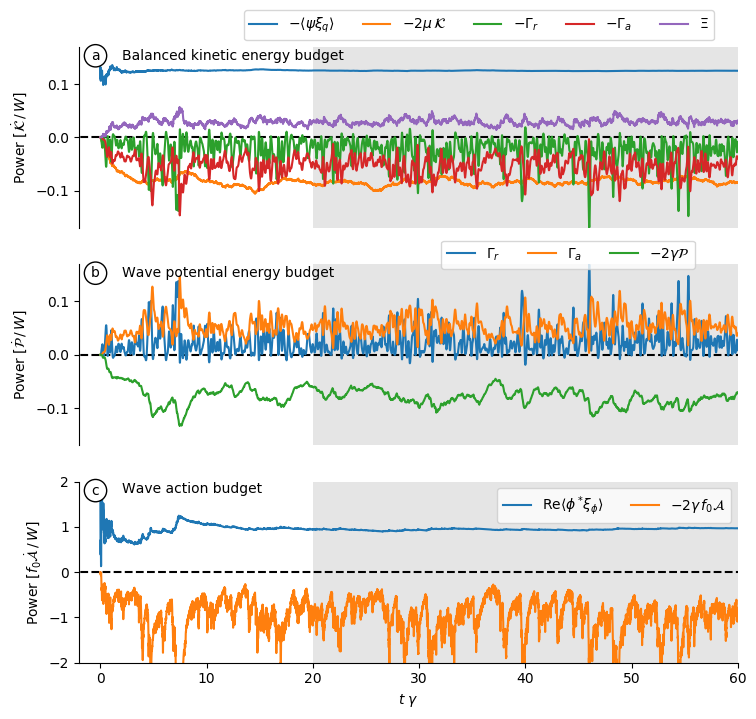
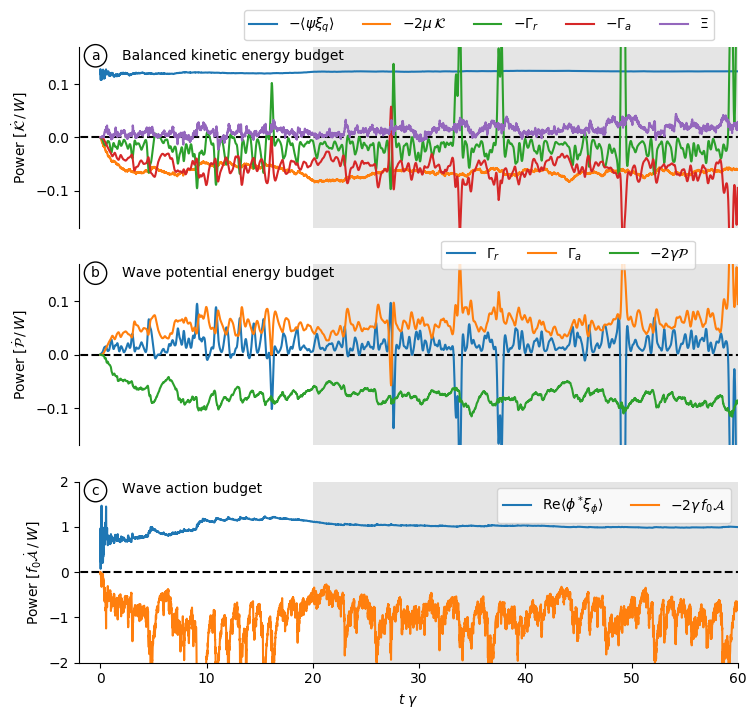
Update

Changed region(s): [[0.1217, 0.0612, 0.9735, 0.306], [0.1217, 0.3672, 0.9735, 0.612], [0.1217, 0.7038, 0.9735, 0.9179]]

diff --git a/code/CompareDiagnostics.py b/code/CompareDiagnostics.py
@@ -115,7 +115,9 @@ fig = plt.figure(figsize=(8.5,10.))
 ax = fig.add_subplot(311)
 plt.plot([-5,65],[K,K]/Eq,'k--')
 pk = plt.plot(time,diags_reference['ke_qg'][:]/Eq)
+#plt.plot(time,diags_reference['ke_euler'][:]/Eq,'--',color=pk[0].get_color(),alpha=0.5)
 pp = plt.plot(timend,diags_nodrag['ke_qg'][:]/Eq)
+#plt.plot(timend,diags_nodrag['ke_euler'][:]/Eq,'--',color=pp[0].get_color(),alpha=0.5)
 plt.plot(time,diags_nowaves['ke_qg'][:]/Eq)
 plt.xlim(-2,37.5)
 plt.ylabel(r"Balanced kinetic energy $[\mathcal{K}/E_q]$")
@@ -123,7 +125,7 @@ plt.yticks([0,0.5,1.0,1.5,2.0])
 plt.legend(loc=(0.35,-0.2),ncol=3)
 #remove_axes(ax,bottom=True)
 remove_axes(ax,bottom=True)
-plot_fig_label(ax,xc=0.025,yc=0.95,label=r'$\mathcal{K}$')
+plot_fig_label(ax,xc=0.025,yc=0.95,label=r'$\mathcal{K}^L$')
 
 plt.text(26.5,1.5,r"No-drag")
 plt.text(33,0.35,'Reference')
@@ -176,7 +178,7 @@ stop
 #
 ## First, design the Buterworth filter
 N  = 2    # Filter order
-Wn = 0.05 # Cutoff frequency
+Wn = 0.025 # Cutoff frequency
 B, A = signal.butter(N, Wn, output='ba')
 #gamma_a_filt = signal.filtfilt(B,A, gamma_a)
 #gamma_r_filt = signal.filtfilt(B,A, gamma_r)
@@ -191,7 +193,7 @@ plt.plot(time,(diags_reference['Work_q'][:])/(time/gamma)/POWER,label=r'$-\lefta
 plt.plot(time,diags_reference['ep_psi'][:]/POWER,label=r'$-2\mu\,\mathcal{K}$')
 plt.plot(time,-(signal.filtfilt(B,A,diags_reference['gamma_r'][:]))/POWER,label=r'$-\Gamma_r$')
 plt.plot(time,-(signal.filtfilt(B,A,diags_reference['gamma_a'][:]))/POWER,label=r'$-\Gamma_a$')
-plt.plot(time,(diags_reference['xi_a'][:]+diags_reference['xi_r'][:])/POWER,label=r'$\Xi$')
+plt.plot(time,(diags_reference['xi'][:])/POWER,label=r'$\Xi$')
 
 plt.legend(loc=(0.25,1.035),ncol=5)
 plt.ylabel(r"Power [$\dot \mathcal{K} \,/\, W$]")
@@ -232,20 +234,146 @@ plot_fig_label(ax,xc=0.025,yc=0.95,label='c')
 plt.text(2,1.75,'Wave action budget')
 
 plt.axvspan(20, 60, facecolor='k', alpha=0.1)
-
 plt.savefig(patho+'K_and_P_and_A_budget_reference', pad_inces=0, bbox_inches='tight')
 
 
+
+#
+# calculate and plot buget
+#
+
+y_pos = np.arange(6)
+colors = ['0.5', 'b', 'm', 'r', 'maroon','g']
+colors = ['0.5', 'r', 'b', 'b', 'b','r']
+
+fig = plt.figure(figsize=(12,8))
+
+ax = fig.add_subplot(121)
+
+eq = (time>24)&(time<=35)
+residual =  -(diags_reference['gamma_r'][eq]+diags_reference['gamma_a'][eq]) + (diags_reference['xi'][eq])+ diags_reference['ep_psi'][eq].mean() + (diags_reference['Work_q'][eq]/(time[eq]/gamma))
+work_q_tot = (diags_reference['Work_q'][eq]/(time[eq]/gamma)).mean()
+norm = work_q_tot.sum()
+work_q_tot = (diags_reference['Work_q'][eq]/(time[eq]/gamma)).mean()/norm
+gamma_q_tot =  -(diags_reference['gamma_r'][eq]+diags_reference['gamma_a'][eq]).mean()/norm
+gamma_q_r =  -(diags_reference['gamma_r'][eq]).mean()/norm
+gamma_q_a =  -(diags_reference['gamma_a'][eq]).mean()/norm
+#xi_tot =  (diags_reference['xi_r'][eq]+diags_reference['xi_a'][eq]).mean()/norm
+xi_tot = (diags_reference['xi'][eq]).mean()/norm
+ep_psi_tot = diags_reference['ep_psi'][eq].mean()/norm
+residual_K = residual.mean()/norm
+
+# P buget
+residual = diags_reference['gamma_r'][eq]+diags_reference['gamma_a'][eq]+diags_reference['chi_phi'][eq]
+gamma_tot = (diags_reference['gamma_r'][eq]+diags_reference['gamma_a'][eq]).mean()
+norm = gamma_tot.sum()
+gamma_r = (diags_reference['gamma_r'][eq]).mean()/norm
+gamma_a = (diags_reference['gamma_a'][eq]).mean()/norm
+chi_phi_tot = diags_reference['chi_phi'][eq].mean()/norm
+residual_P_reference = residual.mean()/norm
+
+
+# A budget
+residual = diags_reference['Work_w'][eq]/(time[eq]/gamma)+diags_reference['ep_phi'][eq]
+work_w_tot =  (diags_reference['Work_w'][eq]/(time[eq]/gamma) ).mean()
+norm = work_w_tot.sum()
+work_w_tot =  (diags_reference['Work_w'][eq]/(time[eq]/gamma) ).mean()/norm
+ep_phi_tot = (diags_reference['ep_phi'][eq]).mean()/norm
+residual_A = residual.mean()/norm
+
+
+
+budget = [residual_K,xi_tot,ep_psi_tot,gamma_q_a,gamma_q_r,work_q_tot]
+plt.barh(y_pos, budget, align='center', alpha=0.35, color = colors)
+plt.yticks([])
+plt.xlim(-1.,1.05)
+ax.spines['right'].set_visible(False)
+ax.spines['left'].set_visible(False)
+ax.spines['top'].set_visible(False)
+plt.text(0.335,4.95,r"Forcing",fontsize=11)
+plt.text(-0.35,3.91,r"$-\Gamma_r$",fontsize=13)
+plt.text(-0.35,2.91,r"$-\Gamma_a$",fontsize=13)
+plt.text(-0.95,3.85,r"Stimulated",fontsize=11,rotation=40)
+plt.text(-0.8,3.85,r"generation",fontsize=11,rotation=40)
+plt.text(-0.51,1.91,r"Bottom drag",fontsize=11)
+plt.text(0.2,.91,r"Wave streaming",fontsize=11)
+plt.text(0.3,-.09,r"Residual",fontsize=11)
+plt.xticks([-1,-.5,0,.5,1.])
+plt.xlabel(r"$\mathcal{K}^L$-budget")
+
+bbox_props = dict(boxstyle="round4", color=None,fc='w', ec="0.5", lw=1.5)
+t = ax.text(-.7, 6.1, "Reference", ha="center", va="center", rotation=0,
+            size=13,
+            bbox=bbox_props)
+
+ax = fig.add_subplot(122)
+eq = timend>24
+
+residual =  -(diags_nodrag['gamma_r'][eq]+diags_nodrag['gamma_a'][eq]) + (diags_nodrag['xi'][eq])+ diags_nodrag['ep_psi'][eq].mean() + (diags_nodrag['Work_q'][eq]/(time[eq]/gamma))
+work_q_tot = (diags_nodrag['Work_q'][eq]/(time[eq]/gamma)).mean()
+norm = work_q_tot.sum()
+work_q_tot = (diags_nodrag['Work_q'][eq]/(time[eq]/gamma)).mean()/norm
+gamma_q_tot =  -(diags_nodrag['gamma_r'][eq]+diags_nodrag['gamma_a'][eq]).mean()/norm
+gamma_q_r =  -(diags_nodrag['gamma_r'][eq]).mean()/norm
+gamma_q_a =  -(diags_nodrag['gamma_a'][eq]).mean()/norm
+#xi_tot =  (diags_nodrag['xi_r'][eq]+diags_nodrag['xi_a'][eq]).mean()/norm
+xi_tot = (diags_nodrag['xi'][eq]).mean()/norm
+ep_psi_tot = diags_nodrag['ep_psi'][eq].mean()/norm
+residual_K = residual.mean()/norm
+
+# P buget
+residual = diags_nodrag['gamma_r'][eq]+diags_nodrag['gamma_a'][eq]+diags_nodrag['chi_phi'][eq]
+gamma_tot = (diags_nodrag['gamma_r'][eq]+diags_nodrag['gamma_a'][eq]).mean()
+norm = gamma_tot.sum()
+gamma_r = (diags_nodrag['gamma_r'][eq]).mean()/norm
+gamma_a = (diags_nodrag['gamma_a'][eq]).mean()/norm
+chi_phi_tot = diags_nodrag['chi_phi'][eq].mean()/norm
+residual_P_nodrag = residual.mean()/norm
+
+budget = [residual_K,xi_tot,ep_psi_tot,gamma_q_a,gamma_q_r,work_q_tot]
+plt.barh(y_pos, budget, align='center', alpha=0.35, color = colors)
+plt.yticks([])
+plt.xlim(-1.,1.05)
+ax.spines['right'].set_visible(False)
+ax.spines['left'].set_visible(False)
+ax.spines['top'].set_visible(False)
+plt.text(0.335,4.95,r"Forcing",fontsize=11)
+plt.text(-0.6,3.91,r"$-\Gamma_r$",fontsize=13)
+plt.text(-0.6,2.91,r"$-\Gamma_a$",fontsize=13)
+plt.text(-1.4,3.85,r"Stimulated",fontsize=11,rotation=40)
+plt.text(-1.25,3.85,r"generation",fontsize=11,rotation=40)
+#plt.text(-0.525,1.91,r"Bottom drag",fontsize=11)
+plt.text(0.2,.91,r"Wave streaming",fontsize=11)
+plt.text(0.3,-.09,r"Residual",fontsize=11)
+plt.xticks([-1,-.5,0,.5,1.])
+plt.xlabel(r"$\mathcal{K}^L$-budget")
+
+bbox_props = dict(boxstyle="round4", color=None,fc='w', ec="0.5", lw=1.5)
+t = ax.text(-.7, 6.1, "No-drag", ha="center", va="center", rotation=0,
+            size=13,
+            bbox=bbox_props)
+
+plt.savefig('figs/ForcedDissipative_Kbudgets.png' , pad_inces=0, bbox_inches='tight')
+plt.savefig('figs/ForcedDissipative_Kbudgets.tiff' , pad_inces=0, bbox_inches='tight')
+
+
+#plt.xlabel('Usage')
+#plt.title('Programming language usage')
+
+
+
+
+stop
 
 # no-drag
 fig = plt.figure(figsize=(8.5,8.))
 ax = fig.add_subplot(311)
 plt.plot([-5,65],[0,0],'k--')
-plt.plot(time,(diags_nodrag['Work_q'][:])/(time/gamma)/POWER,label=r'$-\leftangle \psi \xi_q \rightangle$')
-plt.plot(time,diags_nodrag['ep_psi'][:]/POWER,label=r'$-2\mu\,\mathcal{K}$')
-plt.plot(time,-(signal.filtfilt(B,A,diags_nodrag['gamma_r'][:]))/POWER,label=r'$-\Gamma_r$')
-plt.plot(time,-(signal.filtfilt(B,A,diags_nodrag['gamma_a'][:]))/POWER,label=r'$-\Gamma_a$')
-plt.plot(time,(diags_nodrag['xi_a'][:]+diags_nodrag['xi_r'][:])/POWER,label=r'$\Xi$')
+plt.plot(timend,(diags_nodrag['Work_q'][:])/(timend/gamma)/POWER,label=r'$-\leftangle \psi \xi_q \rightangle$')
+plt.plot(timend,diags_nodrag['ep_psi'][:]/POWER,label=r'$-2\mu\,\mathcal{K}$')
+plt.plot(timend,-(signal.filtfilt(B,A,diags_nodrag['gamma_r'][:]))/POWER,label=r'$-\Gamma_r$')
+plt.plot(timend,-(signal.filtfilt(B,A,diags_nodrag['gamma_a'][:]))/POWER,label=r'$-\Gamma_a$')
+plt.plot(timend,(diags_nodrag['xi'][:])/POWER,label=r'$\Xi$')
 plt.legend(loc=(0.25,1.035),ncol=5)
 plt.ylabel(r"Power [$\dot \mathcal{K} \,/\, W$]")
 plt.ylim(-.3,.3)
@@ -258,9 +386,9 @@ plt.axvspan(20, 60, facecolor='k', alpha=0.1)
 
 ax = fig.add_subplot(312)
 plt.plot([-5,65],[0,0],'k--')
-plt.plot(time,(signal.filtfilt(B,A,diags_nodrag['gamma_r'][:]))/POWER,label=r'$\Gamma_r$')
-plt.plot(time,(signal.filtfilt(B,A,diags_nodrag['gamma_a'][:]))/POWER,label=r'$\Gamma_a$')
-plt.plot(time,diags_nodrag['chi_phi'][:]/POWER,label=r'$-2\gamma\mathcal{P}$')
+plt.plot(timend,(signal.filtfilt(B,A,diags_nodrag['gamma_r'][:]))/POWER,label=r'$\Gamma_r$')
+plt.plot(timend,(signal.filtfilt(B,A,diags_nodrag['gamma_a'][:]))/POWER,label=r'$\Gamma_a$')
+plt.plot(timend,diags_nodrag['chi_phi'][:]/POWER,label=r'$-2\gamma\mathcal{P}$')
 plt.ylim(-.3,.3)
 plt.legend(loc=(.55,.975),ncol=3)
 plt.ylabel(r"Power [$\dot \mathcal{P} \,/\, W$]")
@@ -273,8 +401,8 @@ plt.axvspan(20, 60, facecolor='k', alpha=0.1)
 
 ax = fig.add_subplot(313)
 plt.plot([-5,65],[0,0],'k--')
-plt.plot(time,diags_nodrag['Work_w']/(time/gamma)/POWER,label=r'Re$\leftangle \phi^*\!\xi_\phi\rightangle$')
-plt.plot(time,diags_nodrag['ep_phi']/POWER,label=r'$-2\gamma\, f_0 \mathcal{A}$')
+plt.plot(timend,diags_nodrag['Work_w']/(timend/gamma)/POWER,label=r'Re$\leftangle \phi^*\!\xi_\phi\rightangle$')
+plt.plot(timend,diags_nodrag['ep_phi']/POWER,label=r'$-2\gamma\, f_0 \mathcal{A}$')
 plt.xlabel(r"$t\,\, \gamma$")
 plt.ylabel(r"Power [$f_0 \dot \mathcal{A} \,/\, W$]")
 plt.legend(loc=1,ncol=2)
@@ -285,6 +413,8 @@ plot_fig_label(ax,xc=0.025,yc=0.95,label='c')
 plt.text(2,1.75,'Wave action budget')
 
 plt.axvspan(20, 60, facecolor='k', alpha=0.1)
+
+stops
 
 plt.savefig(patho+'K_and_P_and_A_budget_nodrag.png', pad_inces=0, bbox_inches='tight')
 
@@ -319,7 +449,8 @@ work_q_tot = (diags_reference['Work_q'][eq]/(time[eq]/gamma)).mean()
 norm = work_q_tot.sum()
 work_q_tot = (diags_reference['Work_q'][eq]/(time[eq]/gamma)).mean()/norm
 gamma_q_tot =  -(diags_reference['gamma_r'][eq]+diags_reference['gamma_a'][eq]).mean()/norm
-xi_tot =  (diags_reference['xi_r'][eq]+diags_reference['xi_a'][eq]).mean()/norm
+#xi_tot =  (diags_reference['xi_r'][eq]+diags_reference['xi_a'][eq]).mean()/norm
+xi_tot = diags_reference['xi'][eq]/norm
 ep_psi_tot = diags_reference['ep_psi'][eq].mean()/norm
 residual_K = residual.mean()/norm
 
@@ -350,6 +481,7 @@ norm = work_q_tot.sum()
 work_q_tot = (diags_nodrag['Work_q'][eq]/(time[eq]/gamma)).mean()/norm
 gamma_q_tot =  -(diags_nodrag['gamma_r'][eq]+diags_nodrag['gamma_a'][eq]).mean()/norm
 xi_tot =  (diags_nodrag['xi_r'][eq]+diags_nodrag['xi_a'][eq]).mean()/norm
+xi_tot = diagns_nodrag['xi'][eq]/norm
 ep_psi_tot = diags_nodrag['ep_psi'][eq].mean()/norm
 residual_K = residual.mean()/norm
 
@@ -361,6 +493,7 @@ norm = work_q_tot.sum()
 work_q_tot = (diags_nowaves['Work_q'][eq]/(time[eq]/gamma)).mean()/norm
 gamma_q_tot =  -(diags_nowaves['gamma_r'][eq]+diags_nowaves['gamma_a'][eq]).mean()/norm
 xi_tot =  (diags_nowaves['xi_r'][eq]+diags_nowaves['xi_a'][eq]).mean()/norm
+xi_tot = diagns_nowaves['xi'][eq]/norm
 ep_psi_tot = diags_nowaves['ep_psi'][eq].mean()/norm
 residual_K = residual.mean()/norm
 
